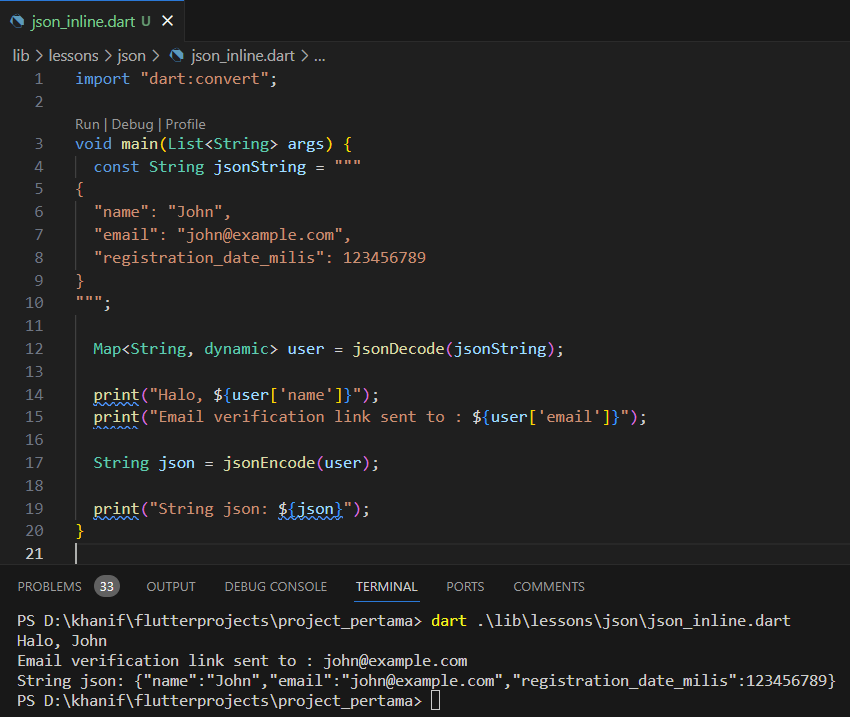
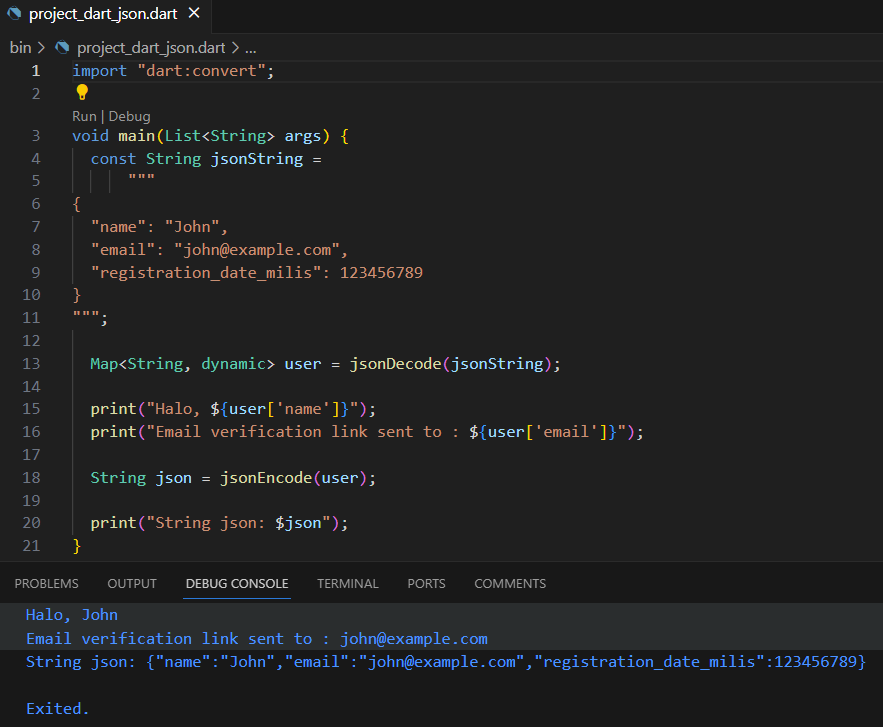
add json, http

diff --git a/json.md b/json.md
@@ -1,5 +1,19 @@
 # Flutter JSON
 
+> Daftar Isi:
+>
+> 1. [Pendahuluan](#pendahuluan)
+> 2. [Manual Serialization](#manual-serialization)
+>    1. [Serializing Json Inline](#1-serializing-json-inline)
+>    2. [Serializing JSON di dalam class model](#2-serializing-json-di-dalam-class-model)
+> 3. [Serialization using Code Generator](#serialization-using-code-generator)
+>    1. [Setup json_serializable dalam project](#setup-json_serializable-dalam-project)
+>    2. [Membuat class model dengan json_serializable](#membuat-class-model-dengan-json_serializable)
+>    3. [Running code generator](#running-code-generator)
+>    4. [Mengkonsumsi model dari json_serializable](#mengkonsumsi-model-dari-json_serializable)
+
+## Pendahuluan
+
 JSON (JavaScript Object Notation) adalah format pertukaran data yang ringan. Sangat mudah bagi manusia untuk membaca dan menulisnya. Mudah bagi mesin untuk memprosesnya dan membuatnya. Format ini didasarkan pada Standar Bahasa Pemrograman JavaScript ECMA-262 Edisi ke-3 - Desember 1999. JSON adalah format teks yang sepenuhnya terbebas dari bahasa pemrograman apapun, akan tetapi dalam prakteknya json ini menggunakan konvensi yang akrab dengan bahasa pemrograman dari keluarga bahasa C, termasuk C, C++, C#, Java, JavaScript, Perl, Python, dan masih banyak lainnya. Kemudahan dan keunggulannya ini menjadikan JSON sebagai bahasa pertukaran data yang ideal dan terkenal untuk saat ini.
 
 ![Gambar 1. Struktur JSON dibandingkan List/Array pada umumnya](img/01%20struktur%20json.PNG)
@@ -143,11 +157,44 @@ Jalankan `flutter pub get` ke dalam folder root kita untuk membuat dependensi ba
 
 ```yaml
 dependencies:
-  json_annotation:
+  json_annotation: ^4.8.1
 
 dev_dependencies:
-  lints:
-  test:
-  build_runner:
-  json_serializable:
+  ...
+  build_runner: ^2.4.7
+  json_serializable: ^6.7.1
 ```
+
+### Membuat class model dengan json_serializable
+
+Berikut ini menunjukkan bagaimana cara mengkonversi class User menjadi class json_serializable. Kode berikut ini menggunakan model JSON yang disederhanakan dari contoh sebelumnya.
+
+![Gambar 5 Class Model dengan json_serializable](img/05%20class%20model%20dengan%20json_serializable.PNG)
+
+Gambar 5. Class Model dengan json_serializable
+
+Dengan setup ini, code generator menghasilkan kode untuk encoding dan decoding field name dan email dari JSON.
+
+Jika perlu, juga mudah untuk menyesuaikan strategi penamaan. Misalnya, jika API mengembalikan objek dengan snake_case, dan kita ingin menggunakan lowerCamelCase di model kita, kita bisa menggunakan anotasi @JsonKey dengan name parameter:
+
+![Gambar 06 Penggunaan JsonKey untuk formatting camelCase atau snake_case](img/06%20Penggunaan%20JsonKey%20untuk%20formatting%20camelCase%20atau%20snake_case.PNG)
+
+Gambar 6. Penggunaan `JsonKey` untuk formatting camelCase atau snake_case
+
+### Running code generator
+
+Saat membuat class `json_serializable` pertama kali, Anda akan mendapatkan kesalahan yang serupa dengan yang ditunjukkan pada gambar sebelumnya. Kesalahan ini sepenuhnya normal dan hanya karena kode yang dihasilkan untuk class model belum ada. Untuk mengatasinya, jalankan code generator untuk menghasilkan class boilerplate yang sudah terserialisasi.
+
+- Dengan menjalankan `dart run build_runner build --delete-conflicting-outputs` di root project, inimemicu build satu kali yang menelusuri files, memilih yang sesuai setup code generator, dan menghasilkan kode serialisasi.
+
+- Generate kode secara terus menerus. watcher membuat proses pembuatan kode kami lebih nyaman. Itu mengawasi perubahan dalam file project kita dan secara otomatis membuat file yang diperlukan. Memulai watcher dengan cara menjalankan perintah `dart run build_runner watch --delete-conflicting-outputs` di root project..
+
+![Gambar 7 Menjalankan code generator dengan perintah dart run](img/07%20Menjalankan%20code%20generator%20dengan%20perintah%20dart%20run.PNG)
+
+Gambar 7 Menjalankan code generator dengan perintah `dart run`
+
+### Mengkonsumsi model dari json_serializable
+
+Untuk decode JSON string dengan cara `json_serializable`, Anda sebenarnya tidak perlu melakukan perubahan apapun pada kode yang pernah kita buat sebelumnya.
+
+# [Materi Selanjutnya: Flutter Networking](http.md)

diff --git a/http.md b/http.md
@@ -1,0 +1,52 @@
+# Flutter Networking
+
+## Perkenalan
+
+Salah satu fitur yang ditawarkan oleh Flutter adalah emampuannya untuk melakukan networking, yaitu proses pertukaran data melalui jaringan (biasanya internet).
+
+Untuk melakukan networking menggunakan Flutter, kamu bisa menggunakan package bernama http, yang sudah disediakan oleh Flutter. Package ini memungkinkan kamu untuk melakukan berbagai operasi networking, seperti mengirimkan HTTP GET, POST, PUT, DELETE.
+
+Selain package http, ada package lain yang bernama dio yang merupakan sebuah library HTTP client yang lebih kuat dan fleksibel dibandingkan dengan package http. Package dio ini cocok untuk melakukan operasi networking yang lebih kompleks di Flutter. Namun untuk topic kali ini, kita hanya akan menggunakan package http
+
+## Thunder Client
+
+Untuk mempermudah dalam integrasi API kedalam flutter, akan lebih mudah ketika kita sudah dapat melihat url api, request body, dan response body nya. Untuk itu kita perlu tools/software lain untuk melakukan pengecekan Rest API nya. Disini saya akan memperkenalkan teman teman dengan software bernama Thunder Client, Cari extensionnya di VSCode, kemudian Install. Nanti tampilannya seperti gambar disamping :
+
+![Gambar 8 Tampilan Thunder Client](img/08%20Tampilan%20Thunder%20Client.PNG)
+
+Gambar 8. Tampilan Thunder Client
+
+Alternative Thunder Client temen-temen bisa menggunakan POSTMAN.
+
+## Mengambil data dari internet
+
+Untuk mengambil data dari internet, kita dapat menggunakan method GET. Metode GET adalah salah satu metode yang disediakan oleh package http ini, yang digunakan untuk mengirimkan permintaan ke server API untuk mengambil data.
+Sebagai contoh kita akan mengambil data dari API URL: https://jsonplaceholder.typicode.com/albums/1
+
+Pertama yang perlu kita lakukan adalah mengecek dulu api ini di thunderclient, api ini berkerja dengan benar apa tidak.
+
+![Gambar 9 Request Pertama](img/09%20Request%20Pertama.PNG)
+
+Gambar 9. Request Pertama
+
+## Test API menggunakan POSTMAN
+
+## Menambahkan package http
+
+## Konversi response menjadi object Dart
+
+## Ubah http.Response menjadi Album
+
+## Ambil Data
+
+## Tampilkan Data
+
+## Mengapa fetchAlbum() dipanggil di initState()
+
+## Mengirim data ke internet
+
+## Convert response dari http.Response ke Album
+
+## Mendapatkan title dari inputan user
+
+## Menampilkan response ke layar

diff --git a/README.md b/README.md
@@ -19,7 +19,7 @@ Materi Mata Kuliah Pemrograman Mobile | Teknik Informatika UNISNU Jepara | Akhma
 >    git checkout -b dev
 >    ```
 >
-> 6. Mulai praktek, selesai praktek lakukan commit dengan label sesuai materi yang dikerjakan. Untuk project folder, anda bisa buat di dalam folder flutter-json dengan nama project "project_flutter_json"
+> 6. Mulai praktek, selesai praktek lakukan commit dengan label sesuai materi yang dikerjakan. Untuk project folder, anda bisa buat di dalam folder flutter-json dengan memilih Dart > New project > Console Application > Nama project "project_dart_json"
 >
 >    ```bash
 >    git add .
